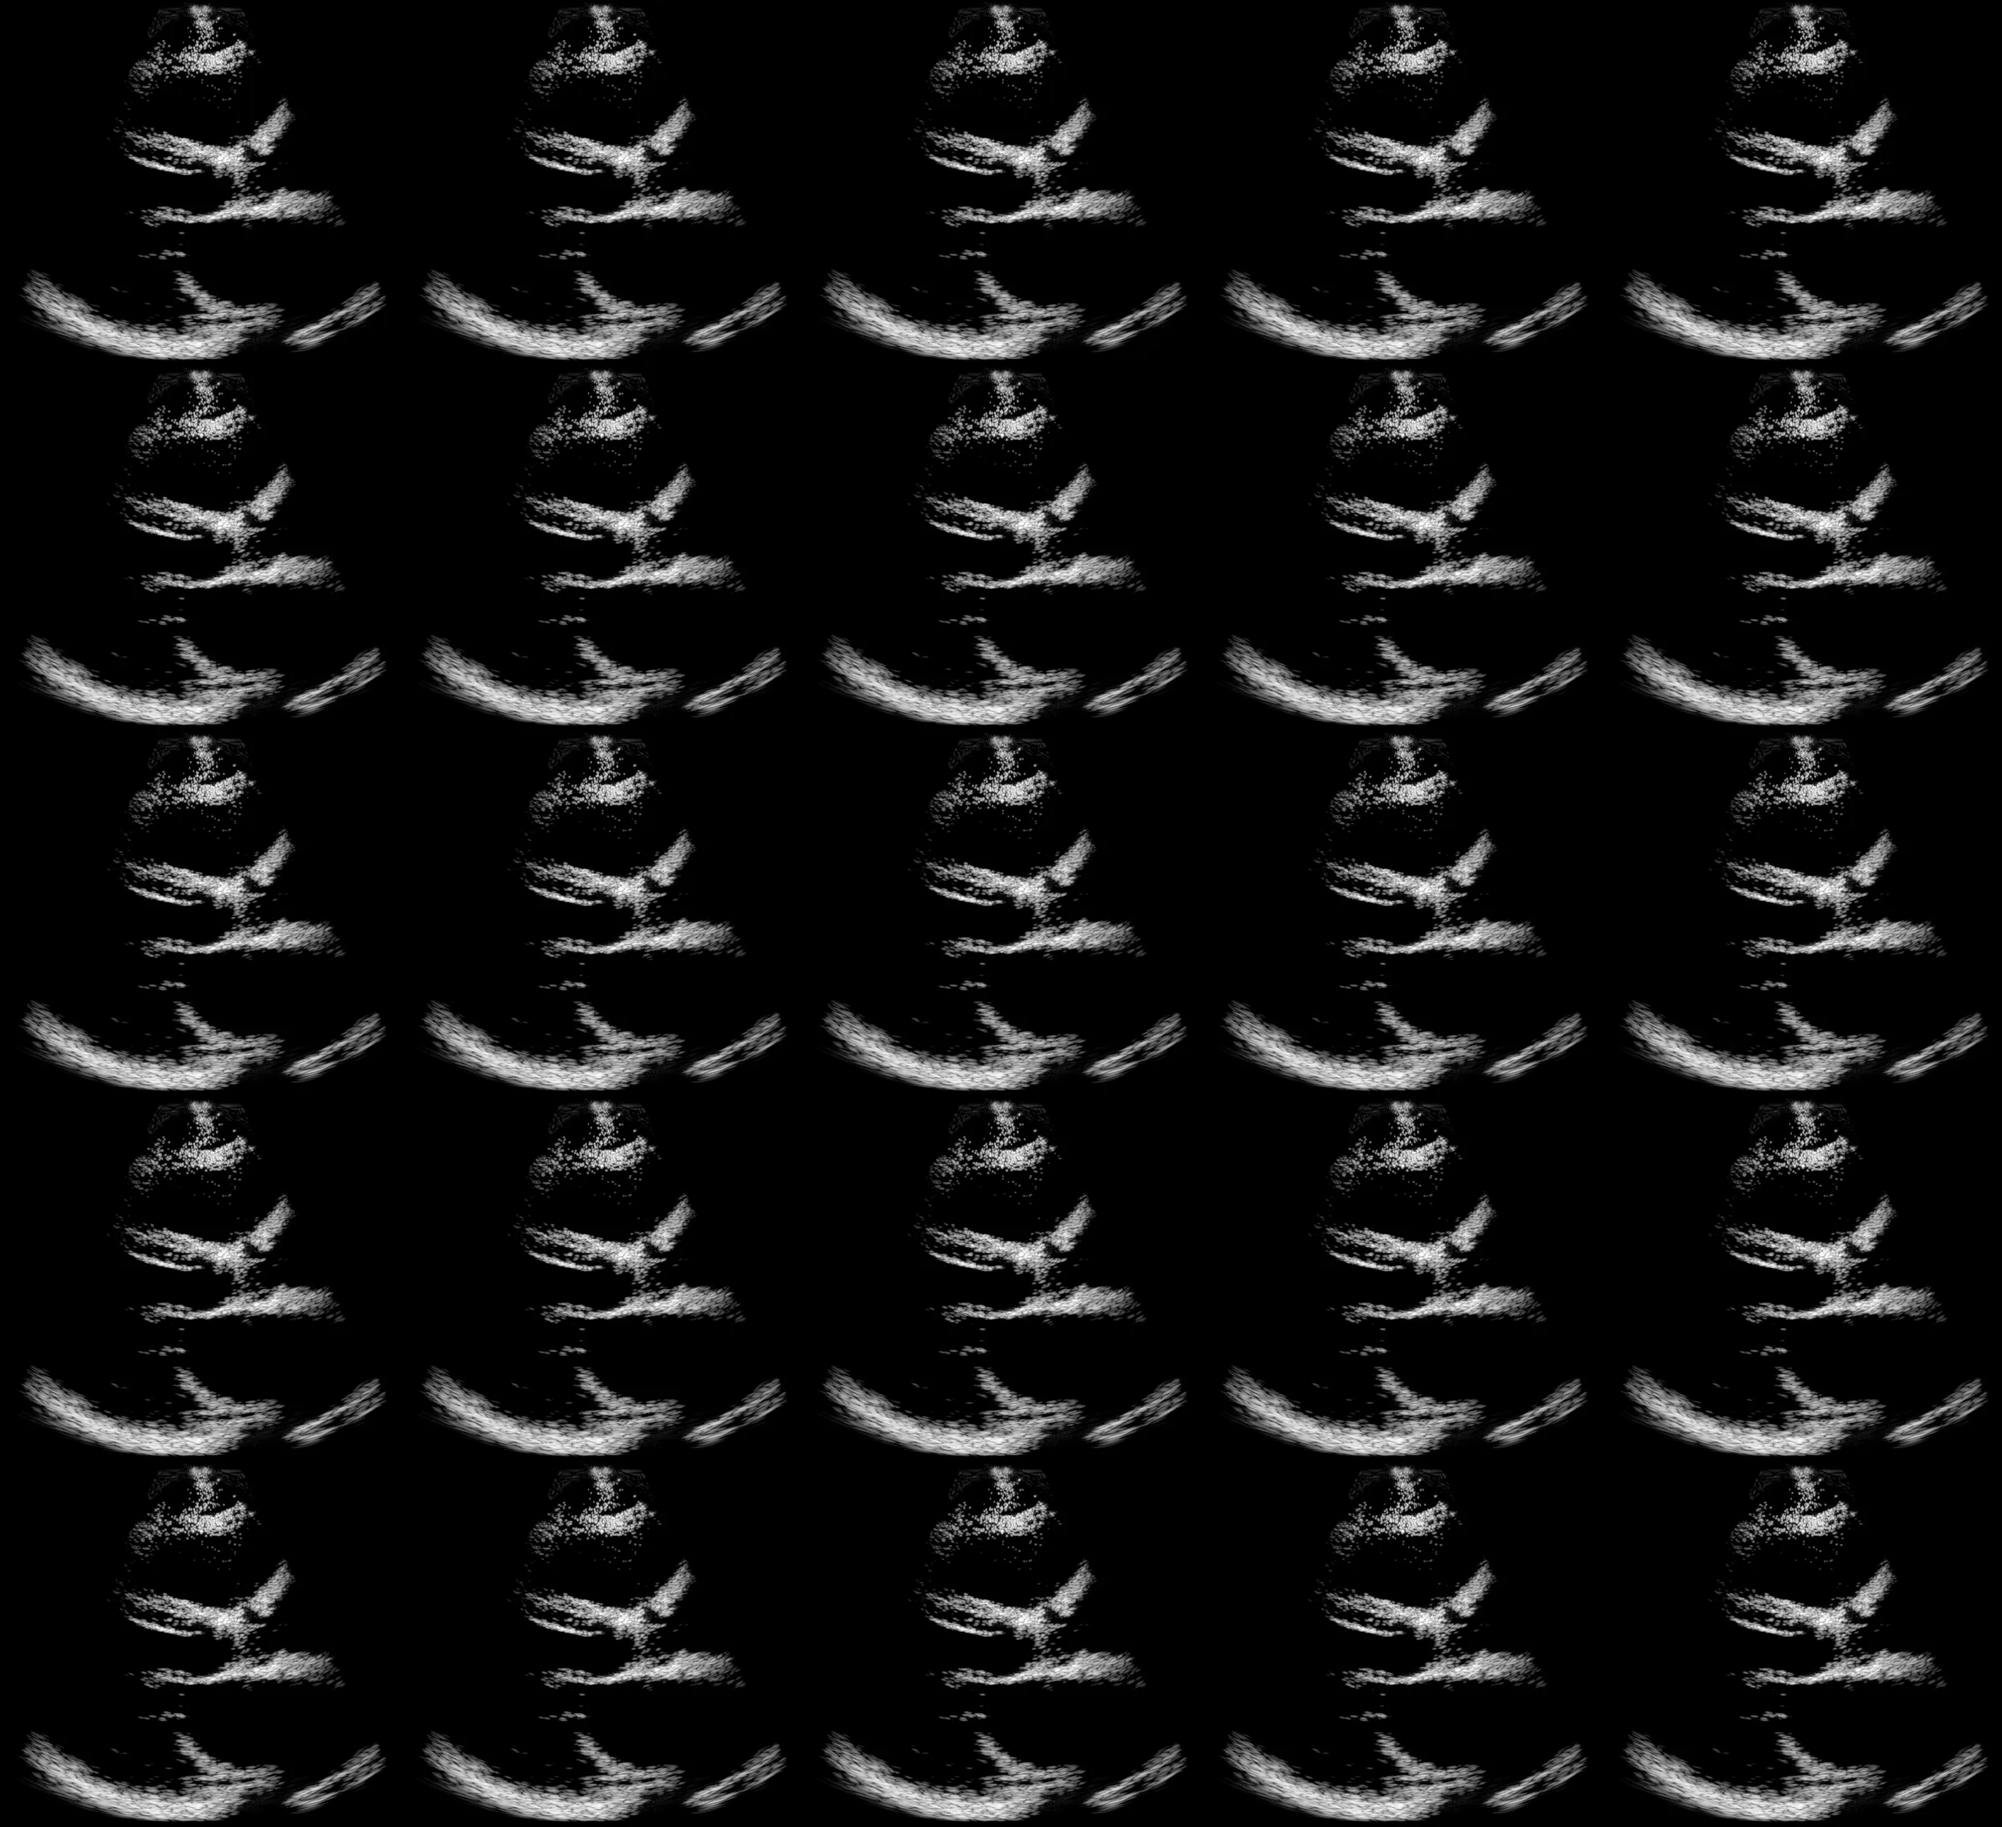
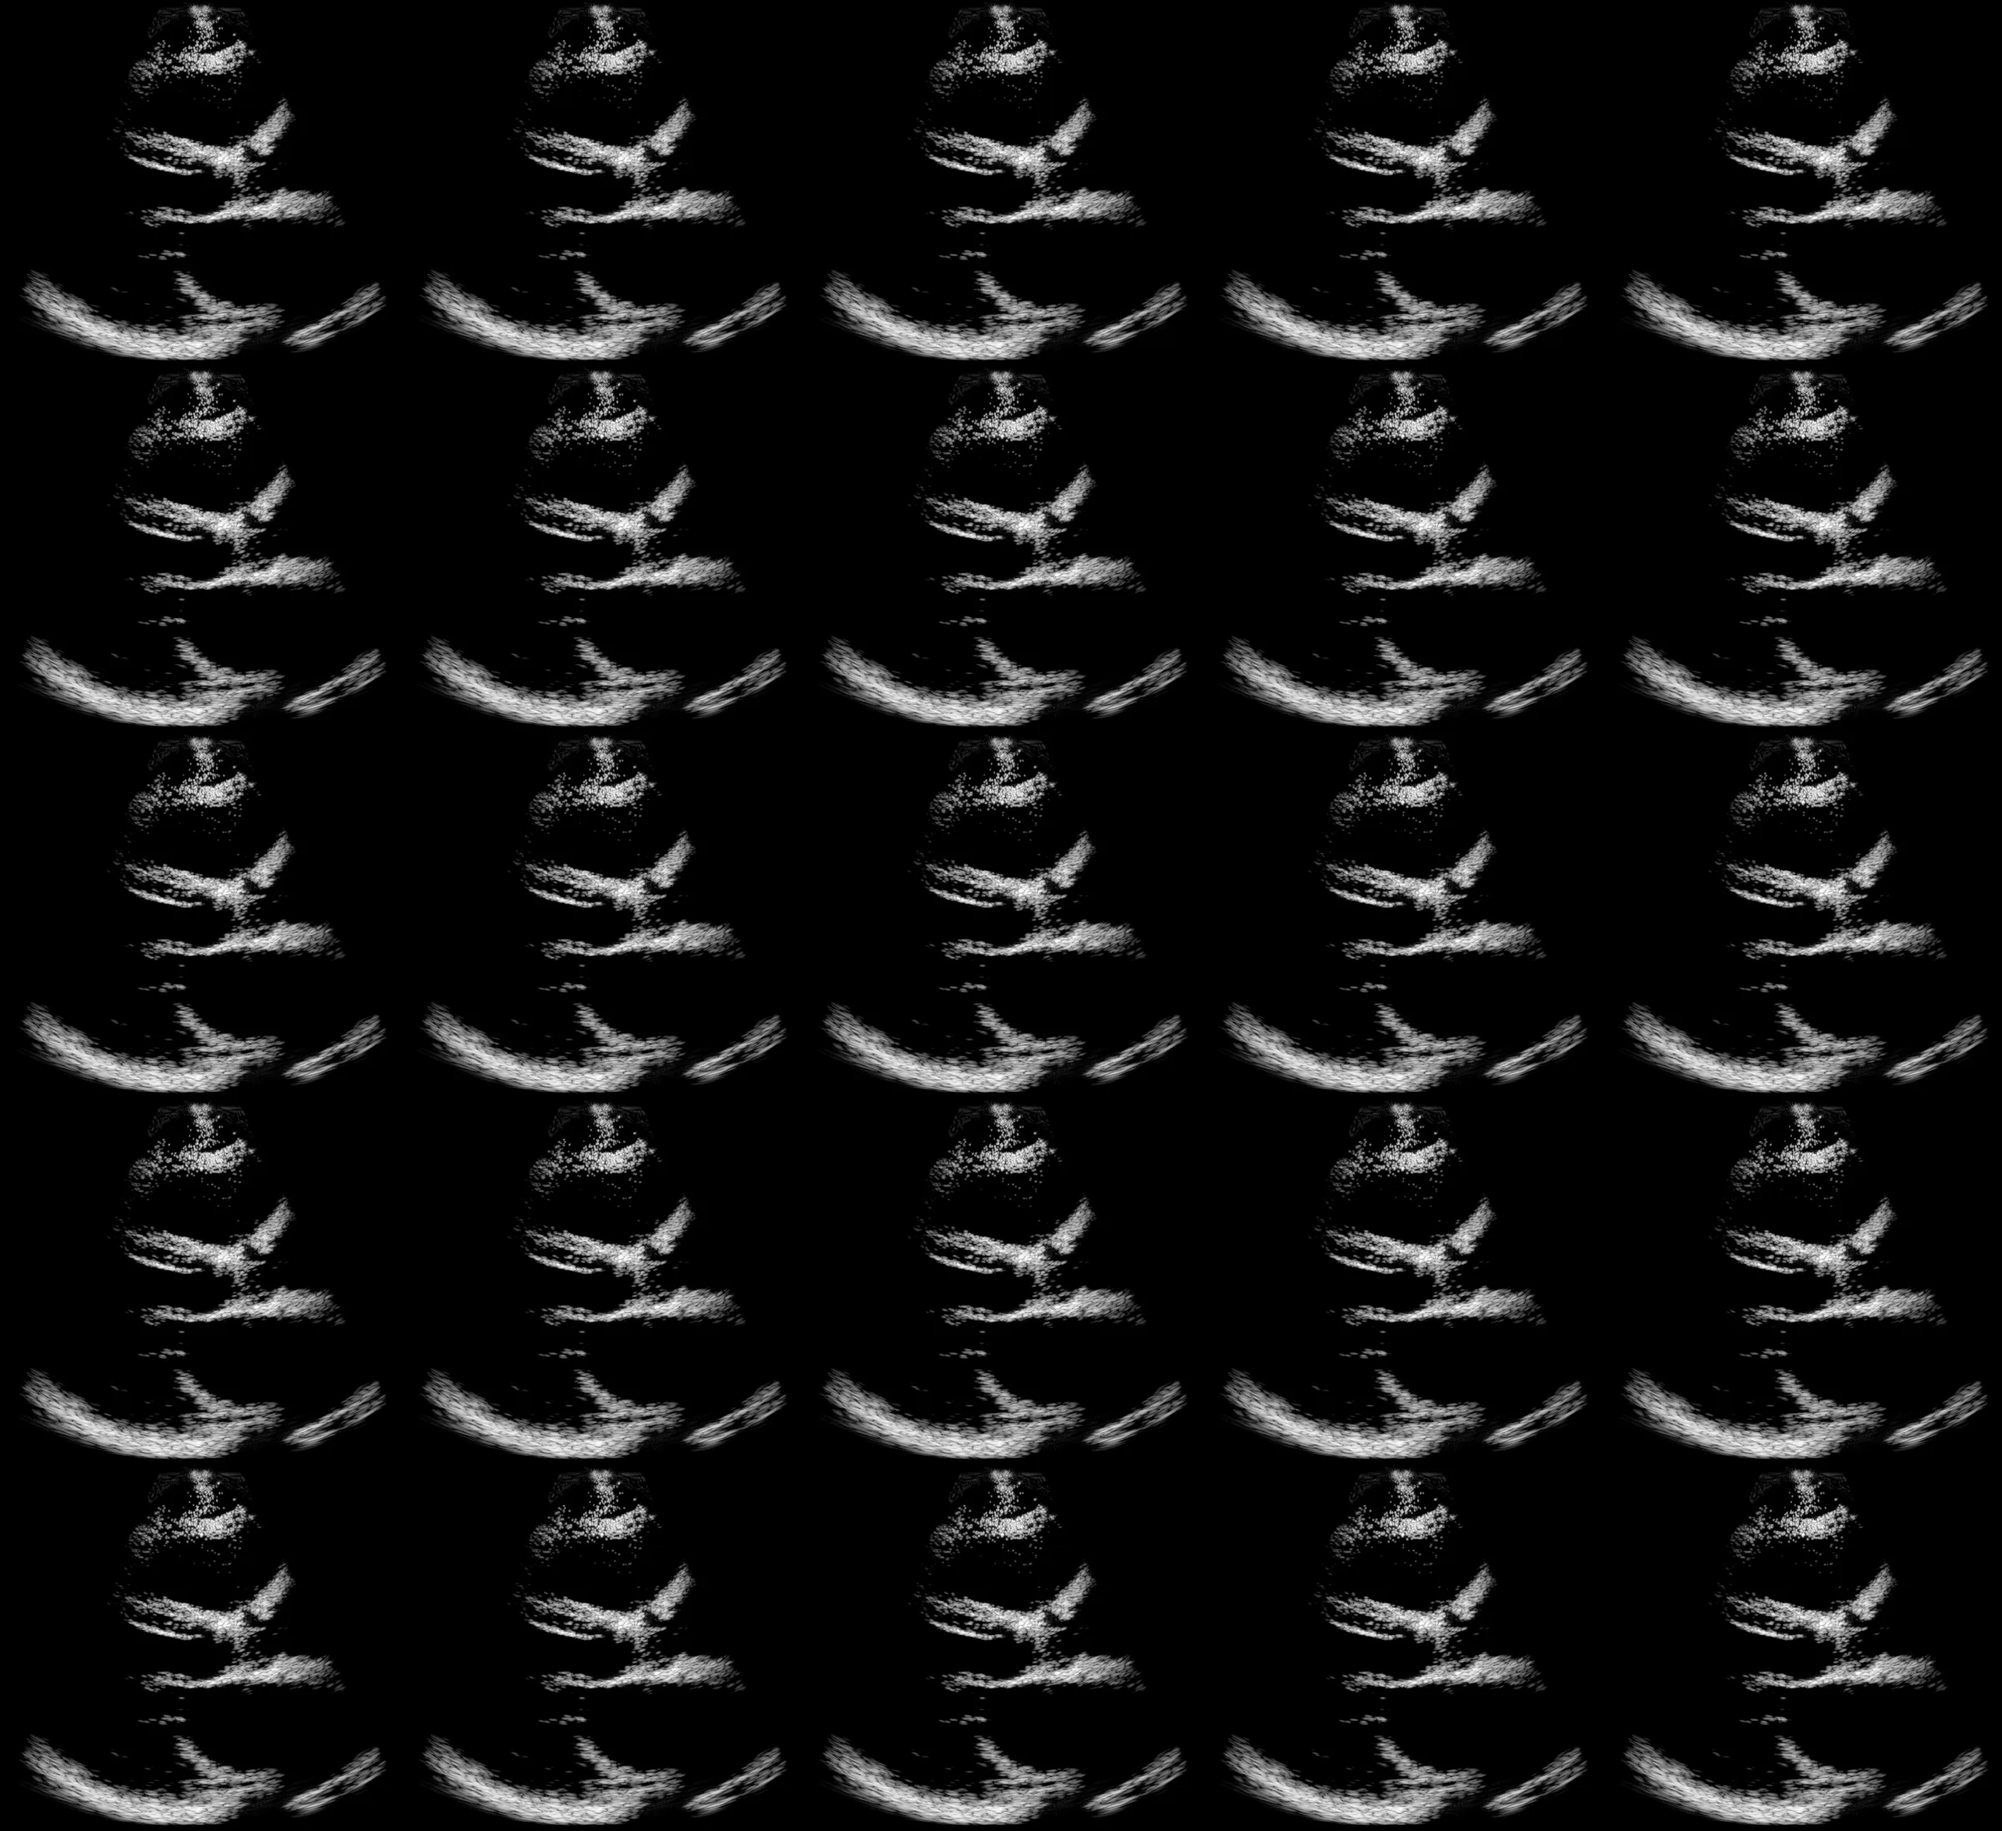
Start the trajectory slider at the sampler's initial draw
The first slider position was snapshot 1: x0_hat at t = 0.99, which has
already been through a full denoising pass and does not look like noise. The
run now stores the initial state z at t = 1 (NMSE +2.4 dB, complex corr
0.0003) and the exporter puts it in front, so the slider spans 101 frames from
pure noise to the converged estimate.

Changed region(s): [[0.4688, 0.9936, 0.5, 1.0]]

diff --git a/docs/static/dps/manifest.js b/docs/static/dps/manifest.js
@@ -1,1 +1,1 @@
-window.DPS_MANIFEST={"n_frames":100,"trajectory":{"t":[0.99,0.98,0.97,0.96,0.95,0.94,0.93,0.92,0.91,0.9,0.89,0.88,0.87,0.86,0.85,0.84,0.83,0.82,0.81,0.8,0.79,0.78,0.77,0.76,0.75,0.74,0.73,0.72,0.71,0.7,0.69,0.68,0.67,0.66,0.65,0.64,0.63,0.62,0.61,0.6,0.59,0.58,0.57,0.56,0.55,0.54,0.53,0.52,0.51,0.5,0.49,0.48,0.47,0.46,0.45,0.44,0.43,0.42,0.41,0.4,0.39,0.38,0.37,0.36,0.35,0.34,0.33,0.32,0.31,0.3,0.29,0.28,0.27,0.26,0.25,0.24,0.23,0.22,0.21,0.2,0.19,0.18,0.17,0.16,0.15,0.14,0.13,0.12,0.11,0.1,0.09,0.08,0.07,0.06,0.05,0.04,0.03,0.02,0.01,0.0],"nmse_db":[-0.3948,-1.5722,-2.7536,-3.8744,-7.8311,-10.0781,-11.8891,-13.3853,-14.4419,-15.2968,-16.0017,-16.6855,-17.3047,-17.8419,-18.3079,-18.7539,-19.1261,-19.5289,-19.8599,-20.1854,-20.5659,-20.8676,-21.1311,-21.3938,-21.6319,-21.8544,-22.0654,-22.2748,-22.4696,-22.6565,-22.8929,-23.0971,-23.2673,-23.43,-23.5918,-23.7435,-23.8839,-24.0313,-24.1687,-24.29,-24.4176,-24.5346,-24.6431,-24.763,-24.8561,-24.9572,-25.0652,-25.1531,-25.2428,-25.3367,-25.4109,-25.4857,-25.5661,-25.6364,-25.7006,-25.7607,-25.8275,-25.8817,-25.941,-25.9933,-26.0423,-26.0899,-26.1298,-26.1753,-26.2188,-26.261,-26.2882,-26.3212,-26.3539,-26.3851,-26.4141,-26.4341,-26.46,-26.4767,-26.4976,-26.5133,-26.5272,-26.5421,-26.5483,-26.5632,-26.5671,-26.5747,-26.5744,-26.5774,-26.5774,-26.5723,-26.5676,-26.5597,-26.5497,-26.5347,-26.5212,-26.4991,-26.4765,-26.4456,-26.4067,-26.3541,-26.286,-26.1994,-26.153,-26.1427],"complex_corr":[0.23124,0.48646,0.637911,0.720932,0.819047,0.869848,0.905883,0.929492,0.943712,0.952843,0.959478,0.966526,0.971316,0.975205,0.97788,0.980194,0.981565,0.984242,0.985506,0.986843,0.988899,0.989784,0.990489,0.991141,0.99167,0.992138,0.992588,0.993016,0.993364,0.993725,0.994603,0.995112,0.995435,0.995709,0.995959,0.996191,0.996388,0.996579,0.996752,0.99691,0.99706,0.997191,0.99733,0.997452,0.997569,0.997675,0.997785,0.997872,0.997964,0.998045,0.998123,0.998193,0.998262,0.998325,0.998384,0.99844,0.998495,0.998544,0.998593,0.998638,0.998681,0.998722,0.998762,0.998798,0.998834,0.998868,0.998901,0.99893,0.99896,0.998988,0.999015,0.99904,0.999063,0.999086,0.999108,0.999128,0.999148,0.999167,0.999183,0.999203,0.999219,0.999234,0.999249,0.999263,0.999276,0.999289,0.999301,0.999312,0.999323,0.999332,0.99934,0.999347,0.999352,0.999355,0.999354,0.999347,0.999322,0.999259,0.999146,0.999083],"psnr_db":[16.6034,18.485,20.075,20.5468,21.5182,23.0673,24.475,25.6508,26.346,27.0384,27.7408,28.5827,29.3781,29.973,30.4103,30.8408,31.2364,31.6152,31.9738,32.2627,32.5434,32.843,33.064,33.3087,33.4963,33.7239,34.0424,34.2579,34.5292,34.7666,35.8121,36.3074,36.6698,37.0092,37.7126,38.1093,38.4101,38.6591,38.9277,39.2163,39.5941,39.8524,40.2581,40.7044,41.0953,41.4907,41.8709,42.2769,42.5637,42.9625,43.3231,43.6542,43.8976,44.1817,44.4064,44.721,45.0769,45.3358,45.5474,45.7548,46.0437,46.2165,46.5525,46.6862,47.0583,47.3277,47.4749,47.8422,48.2346,48.5624,48.9163,49.2842,49.4488,49.7667,49.9787,50.2445,50.4608,50.6202,50.8575,51.0027,51.2328,51.4375,51.6083,51.7254,51.9972,52.1757,52.2713,52.454,52.6082,52.7832,52.9214,53.0247,53.1088,53.1662,53.2112,53.1774,53.1235,53.0357,52.9812,52.9922],"step":[10,20,30,40,50,60,70,80,90,100,110,120,130,140,150,160,170,180,190,200,210,220,230,240,250,260,270,280,290,300,310,320,330,340,350,360,370,380,390,400,410,420,430,440,450,460,470,480,490,500,510,520,530,540,550,560,570,580,590,600,610,620,630,640,650,660,670,680,690,700,710,720,730,740,750,760,770,780,790,800,810,820,830,840,850,860,870,880,890,900,910,920,930,940,950,960,970,980,990,1000]},"bmode":{"tile":[480,438],"cols":5,"rows":5,"per_atlas":25,"atlases":["bmode_0.webp","bmode_1.webp","bmode_2.webp","bmode_3.webp"],"truth":"bmode_truth.webp","dynamic_range_db":[-50.0,0.0],"extent_m":[-0.052135236064593,0.052135236064593,0.09528392827258418,0.0],"source_shape":[990,1084],"crop":[0,990,193,1277]},"slices":{"tile":[80,256],"cols":10,"rows":10,"per_atlas":100,"atlases":["slice_tx00.webp","slice_tx10.webp","slice_tx20.webp","slice_tx30.webp","slice_tx40.webp","slice_tx50.webp","slice_tx60.webp","slice_tx70.webp"],"truth":"slice_truth.webp","tx":[0,10,20,30,40,50,60,70],"n_tx":80,"source_shape":[512,80],"db_range":[-30.780790058136006,19.219209941863994]},"run":{"video_id":"0X1015CA08CEBF3730","frame":0,"encoding":"random","n_beams":16,"fraction_of_complete":0.2,"T":1000,"zeta":0.35,"K":1,"snapshot_every":10,"noise":"none (noiseless y = A(x))","final_nmse_db":-26.14273209114834,"final_complex_corr":0.999083320799607}};
+window.DPS_MANIFEST={"n_frames":101,"trajectory":{"t":[1.0,0.99,0.98,0.97,0.96,0.95,0.94,0.93,0.92,0.91,0.9,0.89,0.88,0.87,0.86,0.85,0.84,0.83,0.82,0.81,0.8,0.79,0.78,0.77,0.76,0.75,0.74,0.73,0.72,0.71,0.7,0.69,0.68,0.67,0.66,0.65,0.64,0.63,0.62,0.61,0.6,0.59,0.58,0.57,0.56,0.55,0.54,0.53,0.52,0.51,0.5,0.49,0.48,0.47,0.46,0.45,0.44,0.43,0.42,0.41,0.4,0.39,0.38,0.37,0.36,0.35,0.34,0.33,0.32,0.31,0.3,0.29,0.28,0.27,0.26,0.25,0.24,0.23,0.22,0.21,0.2,0.19,0.18,0.17,0.16,0.15,0.14,0.13,0.12,0.11,0.1,0.09,0.08,0.07,0.06,0.05,0.04,0.03,0.02,0.01,0.0],"nmse_db":[2.4295896744783185,-0.3948,-1.5722,-2.7536,-3.8744,-7.8311,-10.0781,-11.8891,-13.3853,-14.4419,-15.2968,-16.0017,-16.6855,-17.3047,-17.8419,-18.3079,-18.7539,-19.1261,-19.5289,-19.8599,-20.1854,-20.5659,-20.8676,-21.1311,-21.3938,-21.6319,-21.8544,-22.0654,-22.2748,-22.4696,-22.6565,-22.8929,-23.0971,-23.2673,-23.43,-23.5918,-23.7435,-23.8839,-24.0313,-24.1687,-24.29,-24.4176,-24.5346,-24.6431,-24.763,-24.8561,-24.9572,-25.0652,-25.1531,-25.2428,-25.3367,-25.4109,-25.4857,-25.5661,-25.6364,-25.7006,-25.7607,-25.8275,-25.8817,-25.941,-25.9933,-26.0423,-26.0899,-26.1298,-26.1753,-26.2188,-26.261,-26.2882,-26.3212,-26.3539,-26.3851,-26.4141,-26.4341,-26.46,-26.4767,-26.4976,-26.5133,-26.5272,-26.5421,-26.5483,-26.5632,-26.5671,-26.5747,-26.5744,-26.5774,-26.5774,-26.5723,-26.5676,-26.5597,-26.5497,-26.5347,-26.5212,-26.4991,-26.4765,-26.4456,-26.4067,-26.3541,-26.286,-26.1994,-26.153,-26.1427],"complex_corr":[0.000264190796169006,0.23124,0.48646,0.637911,0.720932,0.819047,0.869848,0.905883,0.929492,0.943712,0.952843,0.959478,0.966526,0.971316,0.975205,0.97788,0.980194,0.981565,0.984242,0.985506,0.986843,0.988899,0.989784,0.990489,0.991141,0.99167,0.992138,0.992588,0.993016,0.993364,0.993725,0.994603,0.995112,0.995435,0.995709,0.995959,0.996191,0.996388,0.996579,0.996752,0.99691,0.99706,0.997191,0.99733,0.997452,0.997569,0.997675,0.997785,0.997872,0.997964,0.998045,0.998123,0.998193,0.998262,0.998325,0.998384,0.99844,0.998495,0.998544,0.998593,0.998638,0.998681,0.998722,0.998762,0.998798,0.998834,0.998868,0.998901,0.99893,0.99896,0.998988,0.999015,0.99904,0.999063,0.999086,0.999108,0.999128,0.999148,0.999167,0.999183,0.999203,0.999219,0.999234,0.999249,0.999263,0.999276,0.999289,0.999301,0.999312,0.999323,0.999332,0.99934,0.999347,0.999352,0.999355,0.999354,0.999347,0.999322,0.999259,0.999146,0.999083],"psnr_db":[15.832102250308415,16.6034,18.485,20.075,20.5468,21.5182,23.0673,24.475,25.6508,26.346,27.0384,27.7408,28.5827,29.3781,29.973,30.4103,30.8408,31.2364,31.6152,31.9738,32.2627,32.5434,32.843,33.064,33.3087,33.4963,33.7239,34.0424,34.2579,34.5292,34.7666,35.8121,36.3074,36.6698,37.0092,37.7126,38.1093,38.4101,38.6591,38.9277,39.2163,39.5941,39.8524,40.2581,40.7044,41.0953,41.4907,41.8709,42.2769,42.5637,42.9625,43.3231,43.6542,43.8976,44.1817,44.4064,44.721,45.0769,45.3358,45.5474,45.7548,46.0437,46.2165,46.5525,46.6862,47.0583,47.3277,47.4749,47.8422,48.2346,48.5624,48.9163,49.2842,49.4488,49.7667,49.9787,50.2445,50.4608,50.6202,50.8575,51.0027,51.2328,51.4375,51.6083,51.7254,51.9972,52.1757,52.2713,52.454,52.6082,52.7832,52.9214,53.0247,53.1088,53.1662,53.2112,53.1774,53.1235,53.0357,52.9812,52.9922],"step":[0,10,20,30,40,50,60,70,80,90,100,110,120,130,140,150,160,170,180,190,200,210,220,230,240,250,260,270,280,290,300,310,320,330,340,350,360,370,380,390,400,410,420,430,440,450,460,470,480,490,500,510,520,530,540,550,560,570,580,590,600,610,620,630,640,650,660,670,680,690,700,710,720,730,740,750,760,770,780,790,800,810,820,830,840,850,860,870,880,890,900,910,920,930,940,950,960,970,980,990,1000]},"bmode":{"tile":[480,439],"cols":5,"rows":5,"per_atlas":25,"atlases":["bmode_0.webp","bmode_1.webp","bmode_2.webp","bmode_3.webp","bmode_4.webp"],"truth":"bmode_truth.webp","dynamic_range_db":[-50.0,0.0],"extent_m":[-0.052135236064593,0.052135236064593,0.0953801746647787,0.0],"source_shape":[991,1084],"crop":[0,991,193,1277]},"slices":{"tile":[80,256],"cols":11,"rows":10,"per_atlas":100,"atlases":["slice_tx00.webp","slice_tx10.webp","slice_tx20.webp","slice_tx30.webp","slice_tx40.webp","slice_tx50.webp","slice_tx60.webp","slice_tx70.webp"],"truth":"slice_truth.webp","tx":[0,10,20,30,40,50,60,70],"n_tx":80,"source_shape":[512,80],"db_range":[-30.780790058136006,19.219209941863994]},"frame0":"z at t=1 (the sampler's initial draw, pure noise)","run":{"video_id":"0X1015CA08CEBF3730","frame":0,"encoding":"random","n_beams":16,"fraction_of_complete":0.2,"T":1000,"zeta":0.35,"K":1,"snapshot_every":10,"noise":"none (noiseless y = A(x))","final_nmse_db":-26.14273209114834,"final_complex_corr":0.999083320799607}};

diff --git a/docs/index.html b/docs/index.html
@@ -99,7 +99,7 @@
           <svg class="icon-play" viewBox="0 0 384 512"><path d="M73 39c-14.8-9.1-33.4-9.4-48.5-.9S0 62.6 0 80V432c0 17.4 9.4 33.4 24.5 41.9s33.7 8.1 48.5-.9L361 297c14.3-8.7 23-24.2 23-41s-8.7-32.2-23-41L73 39z"/></svg>
           <svg class="icon-pause" viewBox="0 0 320 512"><path d="M48 64C21.5 64 0 85.5 0 112V400c0 26.5 21.5 48 48 48H80c26.5 0 48-21.5 48-48V112c0-26.5-21.5-48-48-48H48zm192 0c-26.5 0-48 21.5-48 48V400c0 26.5 21.5 48 48 48h32c26.5 0 48-21.5 48-48V112c0-26.5-21.5-48-48-48H240z"/></svg>
         </button>
-        <input class="dps-slider" data-dps="slider" type="range" min="0" max="99" step="1"
+        <input class="dps-slider" data-dps="slider" type="range" min="0" max="100" step="1"
                aria-label="Reverse-diffusion step" disabled>
         <label class="dps-truth-toggle">
           <input type="checkbox" data-dps="truth" disabled> ground truth
